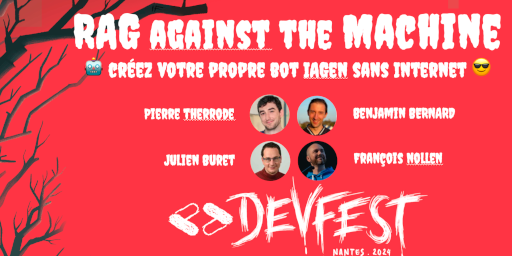
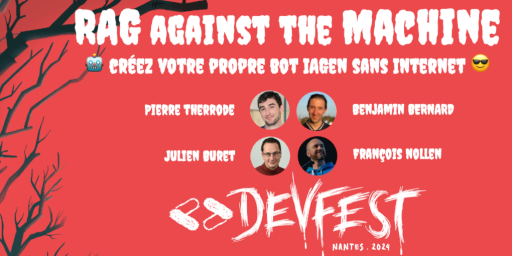
Update codelab images

diff --git a/codelab.html b/codelab.html
@@ -12,7 +12,7 @@
     </style>
 </head>
 <p><a href="https://www.devoxx.fr/agenda-2025/talk/?id=65062" target="_devoxx25">
-    <img src="https://i0.wp.com/goodtech.info/wp-content/uploads/2025/02/Capture-decran-2025-02-09-a-14.44.07.jpg?fit=500%2C531" style="width: 500px;">
+    <img src="fr/images/devoxx2025.png" style="width: 512px;">
 </a></p>
 
 <h1>A la recherche du RAG perdu</h1>
@@ -24,7 +24,7 @@
           target="_devoxx25_git">sources et instructions</a> sont disponibles pour tous sur GitHub,
     ainsi que le <a href="https://fr.slideshare.net/slideshow/a-la-recherche-du-rag-perdu-devoxxfr-2025-8a29/278315743"
                     target="_devoxx25_slideshare">support visuel</a> sur SlideShare.</p>
-<p>N'hesitez pas a le refaire et a le partager. On espere que vous apprecierez ce codelab
+<p>N'hesitez pas a le refaire et partager. On espere que vous apprecierez ce codelab
     <a href="https://www.devoxx.fr/agenda-2025/talk/?id=65062"
        target="_devoxx25"><strong><em>A la recherche du RAG perdu</em></strong></a> !
 </p>

diff --git a/codelab_devoxx25.html b/codelab_devoxx25.html
@@ -12,7 +12,7 @@
 </style>
 </head>
 <p><a href="https://www.devoxx.fr/agenda-2025/talk/?id=65062" target="_devoxx25">
-    <img src="https://i0.wp.com/goodtech.info/wp-content/uploads/2025/02/Capture-decran-2025-02-09-a-14.44.07.jpg?fit=500%2C531" style="width: 500px;">
+    <img src="fr/images/devoxx2025.png" style="width: 512px;">
 </a></p>
 
 <h1>A la recherche du RAG perdu</h1>
@@ -24,7 +24,7 @@
           target="_devoxx25_git">sources et instructions</a> sont disponibles pour tous sur GitHub,
     ainsi que le <a href="https://fr.slideshare.net/slideshow/a-la-recherche-du-rag-perdu-devoxxfr-2025-8a29/278315743"
                     target="_devoxx25_slideshare">support visuel</a> sur SlideShare.</p>
-<p>N'hesitez pas a le refaire et a le partager. On espere que vous apprecierez ce codelab
+<p>N'hesitez pas a le refaire et partager. On espere que vous apprecierez ce codelab
     <a href="https://www.devoxx.fr/agenda-2025/talk/?id=65062"
        target="_devoxx25"><strong><em>A la recherche du RAG perdu</em></strong></a> !
 </p>

diff --git a/codelab_devfest24.html b/codelab_devfest24.html
@@ -12,7 +12,7 @@
 </style>
 </head>
 <p><a href="https://devfest2024.gdgnantes.com/" target="_devfest24">
-    <img src="https://devfest2024.gdgnantes.com/images/social-share.jpg" style="width: 500px;">
+    <img src="fr/images/devfest2024.png" style="width: 512px;">
 </a></p>
 
 <h1>RAG against the Machine</h1>
@@ -23,7 +23,7 @@
           target="_devfest24_git">sources et instructions</a> sont disponibles pour tous sur GitHub,
     ainsi que le <a href="https://fr.slideshare.net/slideshow/rag-against-the-machine-devfestnantes-2024/278313020"
                     target="_devfest24_slideshare">support visuel</a> sur SlideShare.</p>
-<p>N'hesitez pas a le refaire et a le partager. On espere que vous apprecierez ce codelab
+<p>N'hesitez pas a le refaire et partager. On espere que vous apprecierez ce codelab
     <a href="https://devfest2024.gdgnantes.com/sessions/rag_against_the_machine_______creez_votre_propre_bot_iagen_sans_internet/"
        target="_devfest24"><strong><em>RAG against the Machine</em></strong></a> !
 </p>
